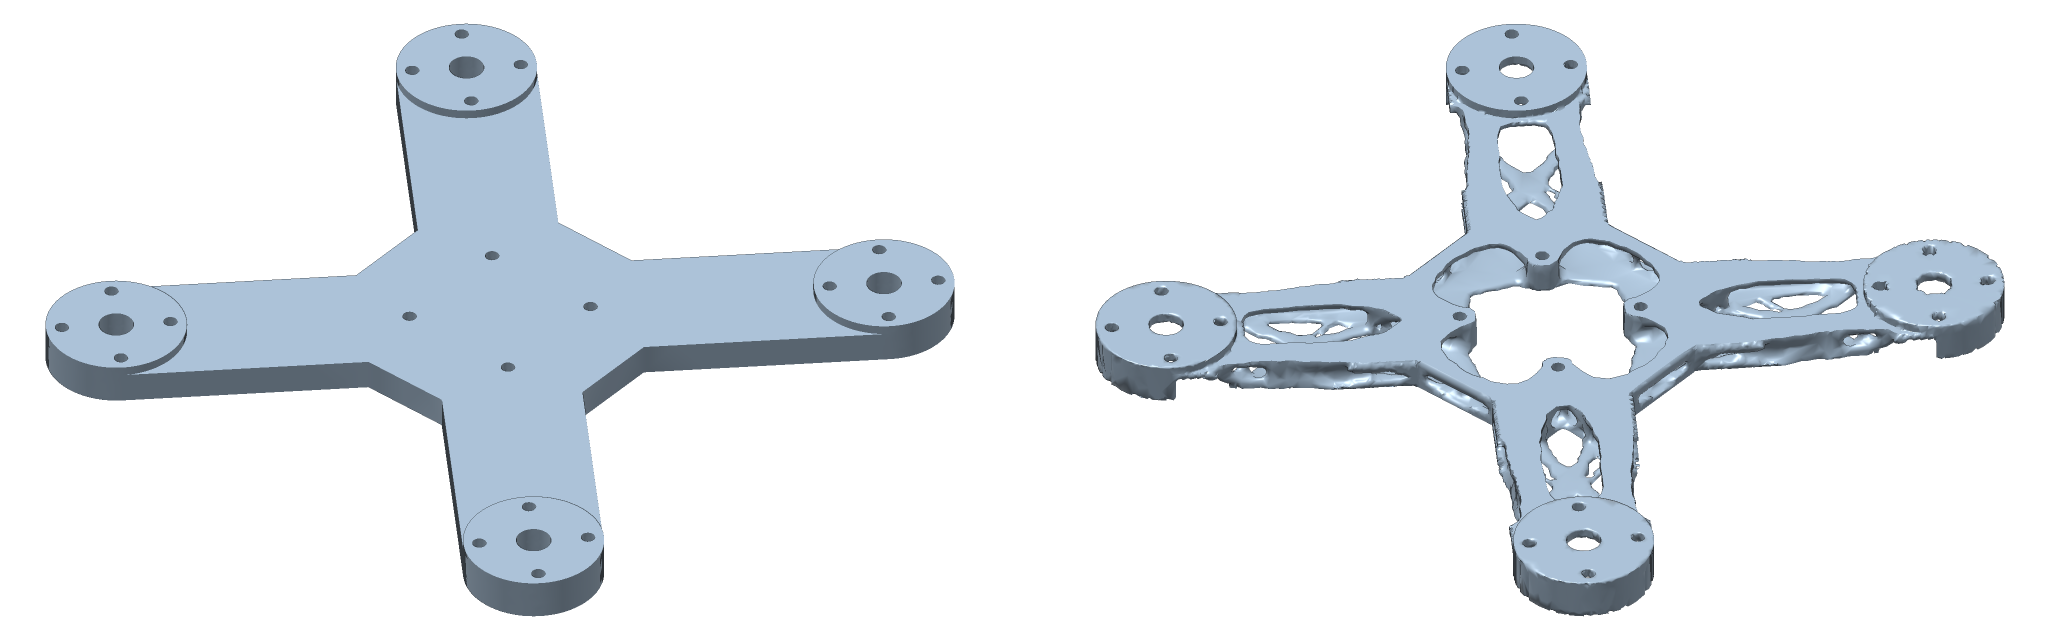
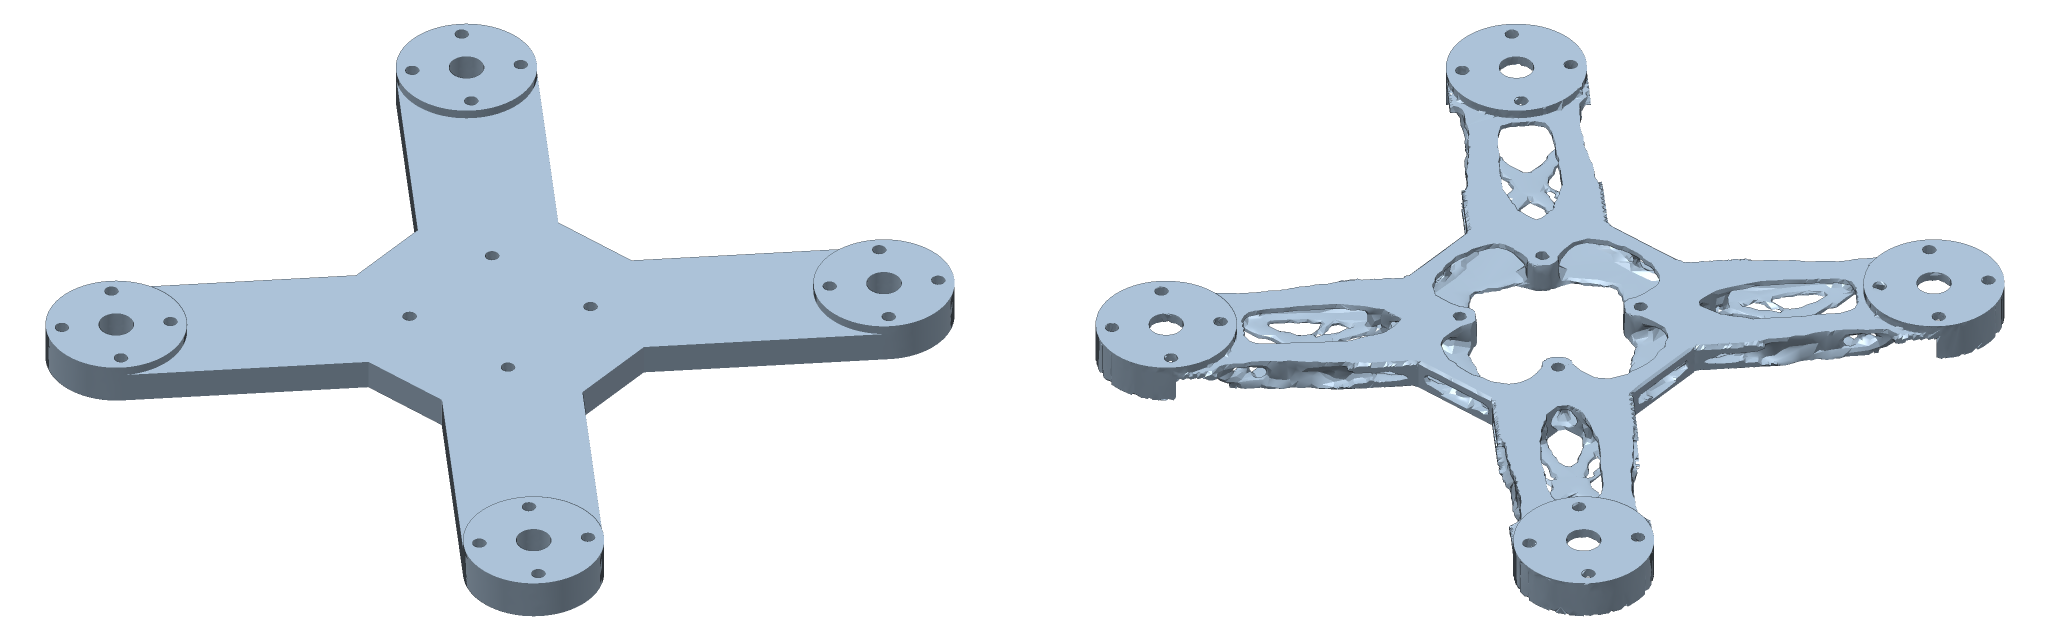
Sturdier grafting of kept faces
- Small pieces of the result cut off by the cut (islands) are dropped
  before the loops are matched, also when they lie on a neighbouring face;
  a stray small loop is closed only when it is a hole, not an island.
- Mending drops mirror-image triangle pairs (flaps of no thickness) and
  collapses edges of folded or degenerate triangles when flips cannot help
  (link condition, no triangle turned over).
- Still tangled seams are relaxed: the result's vertices near the outline
  move to the mean of their neighbours and back onto their faces, then are
  mended again.
- Plugin: Re-mesh drops the previous run's mesh warnings (kept surfaces,
  failed mesh, failed solid) before adding its own.
- FPV frame example re-meshed: all four motor seats are now the CAD faces.
  render_mesh.py no longer averages normals across sharp edges.

diff --git a/crates/topopt-mesh/src/graft.rs b/crates/topopt-mesh/src/graft.rs
@@ -319,6 +319,46 @@ fn ear_clip(poly: &[u32], q: &[[f64; 2]]) -> Option<Vec<[u32; 3]>> {
     Some(tris)
 }
 
+/// Removes islands: pieces of the result the cut has cut off from the rest. Small ones (64
+/// triangles or fewer: a sliver of a wall next to the outline), and any lying all on or next to
+/// the kept faces (a ring around a hole the cut went round). Their loops would match no outline.
+/// Returns the triangles removed.
+fn drop_islands(mesh: &Mesh, original: &Original, keep: &[bool], h: f64, rest: &mut Vec<[u32; 3]>) -> usize {
+    let tmp = Mesh { positions: mesh.positions.clone(), triangles: rest.clone() };
+    let (comp, count) = tmp.components();
+    if count < 2 {
+        return 0;
+    }
+    let mut size = vec![0usize; count];
+    for &c in &comp {
+        size[c as usize] += 1;
+    }
+    let largest = (0..count).max_by_key(|&c| size[c]).unwrap_or(0);
+    let mut drop: Vec<bool> = (0..count).map(|c| c != largest).collect();
+    for (t, tri) in rest.iter().enumerate() {
+        let c = comp[t] as usize;
+        if !drop[c] || size[c] <= 64 {
+            continue;
+        }
+        for &v in tri {
+            let p = mesh.positions[v as usize];
+            let (proj, (k, _)) = original.shape.project_local_point_and_get_location(v3(p), false);
+            if !keep[k as usize] || norm(sub(p, [proj.point.x, proj.point.y, proj.point.z])) > h {
+                drop[c] = false;
+                break;
+            }
+        }
+    }
+    let before = rest.len();
+    let mut k = 0;
+    rest.retain(|_| {
+        let c = comp[k] as usize;
+        k += 1;
+        !drop[c]
+    });
+    before - rest.len()
+}
+
 /// A vertex with more than one boundary half-edge leaving it (two holes touching there), if any.
 fn pinched_vertex(triangles: &[[u32; 3]]) -> Option<u32> {
     let mut half: std::collections::HashSet<(u32, u32)> = std::collections::HashSet::new();
@@ -443,6 +483,44 @@ impl Stitch {
     /// collapsed. The original surface's triangles are never changed. Returns the repairs made.
     fn mend(&mut self, tiny: f64) -> usize {
         let mut flips = 0;
+        // A triangle and its mirror image (the same corners, the other way round) are a flap of
+        // no thickness: both go, and their edges are left with the triangles on either side. One
+        // of the original surface's stays, the other goes.
+        let mut by_corners: HashMap<[u32; 3], Vec<usize>> = HashMap::new();
+        for (t, tri) in self.triangles.iter().enumerate() {
+            let mut k = *tri;
+            k.sort_unstable();
+            by_corners.entry(k).or_default().push(t);
+        }
+        let mut gone = vec![false; self.triangles.len()];
+        for list in by_corners.values().filter(|l| l.len() == 2) {
+            let (a, b) = (list[0], list[1]);
+            let (ta, tb) = (self.triangles[a], self.triangles[b]);
+            let rot = |t: [u32; 3], k: usize| [t[k], t[(k + 1) % 3], t[(k + 2) % 3]];
+            let mirrored = (0..3).any(|k| rot(tb, k) == [ta[0], ta[2], ta[1]]);
+            if !mirrored {
+                continue;
+            }
+            match (self.patch[a], self.patch[b]) {
+                (false, false) => {
+                    gone[a] = true;
+                    gone[b] = true;
+                }
+                (true, false) => gone[b] = true,
+                (false, true) => gone[a] = true,
+                (true, true) => {}
+            }
+        }
+        if gone.iter().any(|&g| g) {
+            let mut k = 0;
+            let patch = std::mem::take(&mut self.patch);
+            self.triangles.retain(|_| {
+                k += 1;
+                !gone[k - 1]
+            });
+            self.patch = patch.into_iter().zip(&gone).filter(|(_, g)| !**g).map(|(p, _)| p).collect();
+            flips += gone.iter().filter(|&&g| g).count();
+        }
         for _ in 0..200 {
             let tmp = Mesh { positions: self.positions.clone(), triangles: self.triangles.clone() };
             let mut bad: Vec<u32> = crate::mesh::folded_triangles(&tmp);
@@ -534,11 +612,123 @@ impl Stitch {
                 }
             }
             if !done {
+                // No flip helps: collapse an edge of a bad triangle instead, moving a vertex of the
+                // result (never one of the original surface's) onto its neighbour, when the mesh
+                // stays manifold (the link condition) and no triangle turns over.
+                if let Some((gone, into)) = self.collapsible(&bad, &on_patch, &star) {
+                    let mut kept = Vec::with_capacity(self.triangles.len());
+                    let mut flags = Vec::with_capacity(self.triangles.len());
+                    for (t, &p) in self.triangles.iter().zip(&self.patch) {
+                        let t = t.map(|v| if v == gone { into } else { v });
+                        if t[0] != t[1] && t[1] != t[2] && t[0] != t[2] {
+                            kept.push(t);
+                            flags.push(p);
+                        }
+                    }
+                    self.triangles = kept;
+                    self.patch = flags;
+                    flips += 1;
+                    continue;
+                }
                 break;
             }
         }
         self.index();
         flips
+    }
+
+    /// Untangles the seam: the result's own vertices (`< base`, on no patch triangle) within
+    /// `band` of the outline move to the mean of their neighbours, `rounds` times; one that lay on
+    /// the original surface goes back onto it, but never onto a kept face (it would sit on top of
+    /// the patch: such a vertex stays put). Returns the vertices moved.
+    fn relax(&mut self, base: u32, original: &Original, keep: &[bool], near_outline: &dyn Fn([f64; 3]) -> bool, h: f64, rounds: usize) -> usize {
+        let on_patch: std::collections::HashSet<u32> =
+            self.triangles.iter().zip(&self.patch).filter(|(_, p)| **p).flat_map(|(t, _)| *t).collect();
+        let mut neighbours: HashMap<u32, Vec<u32>> = HashMap::new();
+        for t in &self.triangles {
+            for k in 0..3 {
+                neighbours.entry(t[k]).or_default().push(t[(k + 1) % 3]);
+            }
+        }
+        let movable: Vec<u32> = neighbours
+            .keys()
+            .copied()
+            .filter(|&v| v < base && !on_patch.contains(&v) && near_outline(self.positions[v as usize]))
+            .collect();
+        let on_surface: HashMap<u32, bool> = movable
+            .iter()
+            .map(|&v| (v, original.shape.distance_to_local_point(v3(self.positions[v as usize]), false) <= 1e-6 * h))
+            .collect();
+        let mut moved = 0;
+        for _ in 0..rounds {
+            let next: Vec<(u32, [f64; 3])> = movable
+                .iter()
+                .map(|&v| {
+                    let ns = &neighbours[&v];
+                    let n = ns.len() as f64;
+                    let mean = ns.iter().fold([0.0; 3], |a, &u| {
+                        let p = self.positions[u as usize];
+                        [a[0] + p[0] / n, a[1] + p[1] / n, a[2] + p[2] / n]
+                    });
+                    (v, mean)
+                })
+                .collect();
+            for (v, mut p) in next {
+                if on_surface[&v] {
+                    let (proj, (t, _)) = original.shape.project_local_point_and_get_location(v3(p), false);
+                    if keep[t as usize] {
+                        continue;
+                    }
+                    p = [proj.point.x, proj.point.y, proj.point.z];
+                }
+                self.positions[v as usize] = p;
+                moved += 1;
+            }
+        }
+        moved
+    }
+
+    /// An edge of one of the `bad` triangles to collapse, (gone, into): `gone` is the result's own
+    /// vertex, the two share exactly the two neighbours across the edge, and every triangle
+    /// around `gone` that stays keeps facing the way it did.
+    fn collapsible(&self, bad: &[u32], on_patch: &std::collections::HashSet<u32>, star: &HashMap<u32, Vec<usize>>) -> Option<(u32, u32)> {
+        let normal = |t: [u32; 3]| {
+            let p = |v: u32| self.positions[v as usize];
+            cross(sub(p(t[1]), p(t[0])), sub(p(t[2]), p(t[0])))
+        };
+        let ring = |v: u32| -> std::collections::HashSet<u32> {
+            star.get(&v).into_iter().flatten().flat_map(|&t| self.triangles[t]).filter(|&u| u != v).collect()
+        };
+        for &t in bad {
+            let tri = self.triangles[t as usize];
+            for k in 0..3 {
+                for (gone, into) in [(tri[k], tri[(k + 1) % 3]), (tri[(k + 1) % 3], tri[k])] {
+                    if on_patch.contains(&gone) {
+                        continue;
+                    }
+                    let common: Vec<u32> = ring(gone).intersection(&ring(into)).copied().collect();
+                    let across: Vec<u32> = star[&gone]
+                        .iter()
+                        .map(|&s| self.triangles[s])
+                        .filter(|s| s.contains(&into))
+                        .filter_map(|s| s.iter().copied().find(|&c| c != gone && c != into))
+                        .collect();
+                    if common.len() != across.len() || !common.iter().all(|c| across.contains(c)) {
+                        continue;
+                    }
+                    let ok = star[&gone].iter().map(|&s| self.triangles[s]).filter(|s| !s.contains(&into)).all(|s| {
+                        let after = s.map(|v| if v == gone { into } else { v });
+                        let (n0, n1) = (normal(s), normal(after));
+                        let l = norm(n1);
+                        l > 1e-9 * norm(n0).max(1e-300) && dot(n0, n1) > 0.0
+                    });
+                    if ok {
+                        return Some((gone, into));
+                    }
+                }
+            }
+        }
+        None
     }
 
     /// Whether splitting the triangle on half-edge `u`→`v` at `points` (a fan from its third
@@ -874,46 +1064,11 @@ fn graft(mesh: &Mesh, original: &Original, keep: &[bool], h: f64, check: bool, m
         rest.retain(|t| !t.iter().any(|&v| near[v as usize]));
         stats.removed += before - rest.len();
     }
-    // Islands: pieces of the result left inside the cut, all of them on or next to the kept faces
-    // (a ring around a hole the cut went round). They would leave a loop no outline matches.
-    {
-        let tmp = Mesh { positions: mesh.positions.clone(), triangles: rest.clone() };
-        let (comp, count) = tmp.components();
-        if count > 1 {
-            let mut size = vec![0usize; count];
-            for &c in &comp {
-                size[c as usize] += 1;
-            }
-            let largest = (0..count).max_by_key(|&c| size[c]).unwrap_or(0);
-            let mut near_kept = vec![true; count];
-            for (t, tri) in rest.iter().enumerate() {
-                let c = comp[t] as usize;
-                if c == largest || !near_kept[c] {
-                    continue;
-                }
-                for &v in tri {
-                    let p = mesh.positions[v as usize];
-                    let (proj, (k, _)) = original.shape.project_local_point_and_get_location(v3(p), false);
-                    if !keep[k as usize] || norm(sub(p, [proj.point.x, proj.point.y, proj.point.z])) > h {
-                        near_kept[c] = false;
-                        break;
-                    }
-                }
-            }
-            let before = rest.len();
-            let mut k = 0;
-            rest.retain(|_| {
-                let c = comp[k] as usize;
-                k += 1;
-                c == largest || !near_kept[c]
-            });
-            stats.removed += before - rest.len();
-        }
-    }
     // Where two cuts touch at a vertex, cut its triangles too, until the cut's loops are simple.
     let holes = {
         let mut tries = 0;
         loop {
+            stats.removed += drop_islands(mesh, original, keep, h, &mut rest);
             match pinched_vertex(&rest) {
                 None => break boundary_loops(&rest)?,
                 Some(v) if tries < 64 => {
@@ -1181,6 +1336,18 @@ fn graft(mesh: &Mesh, original: &Original, keep: &[bool], h: f64, check: bool, m
     }
 
     s.mend(1e-6 * h);
+    // Still folded or crossing next to the seam: untangle there and mend again.
+    {
+        let tmp = Mesh { positions: s.positions.clone(), triangles: s.triangles.clone() };
+        let tangled = !crate::mesh::folded_triangles(&tmp).is_empty()
+            || !crate::mesh::degenerate_triangles(&tmp).is_empty()
+            || (check && !crate::intersect::find_self_intersections(&tmp).is_empty());
+        if tangled {
+            let near = |p: [f64; 3]| outline_shape.distance_to_local_point(v3(p), false) <= 2.5 * h;
+            s.relax(base, original, keep, &near, h, 12);
+            s.mend(1e-6 * h);
+        }
+    }
     let mut out = Mesh { positions: s.positions, triangles: s.triangles };
     out.compact();
     let r = out.validate(check);

diff --git a/crates/topopt-study/src/lib.rs b/crates/topopt-study/src/lib.rs
@@ -473,16 +473,18 @@ pub fn make_mesh(study: &Study, density: &Density, surface: Surface) -> Result<(
         ..Default::default()
     };
     let h = field.h;
-    let (mut mesh, mut report) = topopt_mesh::extract_with(field, Some(&anchors), None, projector.as_ref(), &opts)?;
-    // Kept faces exactly as the CAD model has them: its own triangles there, stitched in.
+    // Kept faces exactly as the CAD model has them: its own triangles there, stitched in after the
+    // mesh is made.
     let kept_faces: Vec<i64> = study
         .conditions
         .iter()
         .filter(|c| matches!(c, Condition::Keep { .. }))
         .flat_map(|c| c.faces().iter().map(|f| f.index))
         .collect();
-    if let Some(s) = surface.filter(|s| !kept_faces.is_empty() && s.faces.len() == s.triangles.len() && !s.triangles.is_empty()) {
-        let keep: Vec<bool> = s.faces.iter().map(|f| kept_faces.contains(f)).collect();
+    let graft = surface.filter(|s| !kept_faces.is_empty() && s.faces.len() == s.triangles.len() && !s.triangles.is_empty());
+    let keep: Vec<bool> = graft.map(|s| s.faces.iter().map(|f| kept_faces.contains(f)).collect()).unwrap_or_default();
+    let (mut mesh, mut report) = topopt_mesh::extract_with(field, Some(&anchors), None, projector.as_ref(), &opts)?;
+    if let Some(s) = graft {
         let (grafted, g) = topopt_mesh::graft_kept_faces(&mesh, (s.positions, s.triangles), &keep, h, opts.check_self_intersections);
         if g.grafted > 0 {
             mesh = grafted;

diff --git a/plugins/topopt-src/src/lib.rs b/plugins/topopt-src/src/lib.rs
@@ -516,7 +516,13 @@ fn remesh() -> Result<Value, PluginError> {
     let mut result = study.result.clone().unwrap_or_default();
     result.stl = path;
     result.inserted = false;
-    result.warnings.retain(|w| !w.starts_with("the sharp edges"));
+    // The mesh's own warnings are made afresh.
+    result.warnings.retain(|w| {
+        !w.starts_with("the sharp edges")
+            && !w.contains("kept surfaces could not take the CAD model's own triangles")
+            && !w.starts_with("the mesh could not be made")
+            && !w.starts_with("the body was inserted as a mesh")
+    });
     result.warnings.extend(topopt_study::mesh_warnings(&study, &full, surface_ref.is_some()));
     result.triangles = report.triangles;
     result.genus = report.genus;

diff --git a/scripts/render_mesh.py b/scripts/render_mesh.py
@@ -42,6 +42,9 @@ def rotation(yaw, pitch):
 
 def render(mesh, width, height, yaw, pitch, color, frame=None):
     """`frame`: the vertices that set the framing (default: the mesh's own)."""
+    # Normals are not averaged across sharp edges: a large flat face whose corners it shares with
+    # a steep wall would otherwise be shaded in blotches.
+    mesh = mesh.smooth_shaded
     ss = 2
     W, H = width * ss, height * ss
     v = np.asarray(mesh.vertices, dtype=np.float64)

diff --git a/docs/topopt-mesh.md b/docs/topopt-mesh.md
@@ -45,10 +45,12 @@ std::fs::write("part.stl", mesh.to_stl("topopt"))?;
 2. **insert** the patch's triangles; each loop of the cut is matched to the nearest loop of the patch's outline (one to one);
 3. **weld**: cut vertices within `0.1 h` of the outline (the crease vertices that pinning put on sharp edges, and those next to them) become outline vertices: the outline is split where one lands, or its own vertex is taken if it is that close. Only welds that run once back along the outline are kept, so they come in order;
 4. **bridge** between consecutive welds: an edge of the cut that runs along the outline is split at the outline's vertices when the fan from its triangle's third corner stays the right way round. Any other gap is **ear-clipped**: in its best-fit plane (the direction of least spread of its points) when it is within one sample spacing of flat and every triangle then faces that plane's way; else in its **ribbon** coordinates, arc length along the outline and distance from it, which unroll a strip along the outline whether the face next to it is a plane or a hole's wall. Only a simple polygon is clipped, the best-shaped ear first, so no triangles lie over each other. As a last resort a **ladder** joins the two chains: each cut vertex gets a foot on the outline, and neighbouring rungs are joined by two triangles;
-5. **mend**: two vertices on one point are merged, and a folded or degenerate triangle along the seam has an edge flipped when both new triangles face the way their neighbours do. The patch's own triangles are never changed;
+5. **mend**: two vertices on one point are merged; a triangle and its mirror image (a flap of no thickness) are both dropped; a folded or degenerate triangle along the seam has an edge flipped when both new triangles face the way their neighbours do, else an edge collapsed when the mesh stays manifold (the link condition) and nothing turns over. If folds or crossings remain, the result's own vertices within 2.5 sample spacings of the outline are **relaxed** (moved to the mean of their neighbours, a dozen times, those on the original surface put back on it but never onto a kept face) and mended again. The patch's own triangles are never changed;
 6. **check**: the whole mesh is validated (closed, manifold, oriented, no crossings or folds).
 
-Each patch is tried with each way of filling (plane or ribbon, ribbon only, ladders only), then with the cut widened by half and by one sample spacing around the outline, so that the gap is filled afresh rather than stitched to a ragged edge. All patches are grafted at once; if that fails, each patch alone, keeping those that pass. On a 3-inch FPV frame with 0.4 mm samples, its four motor seats (a 22 mm disc with five holes each) all graft; M2 holes, about five samples across, often do not, as the surface around them is too ragged at that resolution. A patch that cannot be grafted stays as it was, and `GraftReport::failures` says why. `extract` does not graft; `topopt-study`'s `make_mesh` does, after it, when the surface's triangles carry face numbers.
+Each patch is tried with each way of filling (plane or ribbon, ribbon only, ladders only), then with the cut widened by half and by one sample spacing around the outline, so that the gap is filled afresh rather than stitched to a ragged edge. Pieces of the result the cut has cut off (64 triangles or fewer, or lying all on the kept faces) are dropped before the loops are matched, and a small loop left over after matching (a triangle or two cut apart from the rest) is closed where it is. All patches are grafted at once; if that fails, each patch alone, keeping those that pass.
+
+Tested on a 3-inch FPV frame with 0.41 mm samples, its result re-meshed with seven mesh settings (Taubin, HC and bilateral smoothing, 15 000 to 45 000 triangles, finer surface on and off) and two runs: the four motor seats (a 22 mm disc with five holes) grafted in 34 of 36 cases; the two that did not were with sharp edges off and only five smoothing passes. Kept on their own, the four M2 stack holes and the four shaft holes all grafted. With every face kept at once (each seat with its five holes as one patch, and the stack holes), 6 of 8 patches grafted; the two that did not are seats with their M2 holes, each hole about five samples across. A patch that does not graft is pinned to its faces as before, and the warning says so. A patch that cannot be grafted stays as it was, and `GraftReport::failures` says why. `extract` does not graft; `topopt-study`'s `make_mesh` does, after it, when the surface's triangles carry face numbers.
 
 ## Finer fields: `upsample_cells`
 

diff --git a/examples/fpv-frame/README.md b/examples/fpv-frame/README.md
@@ -55,7 +55,7 @@ The arms became open trusses: two flanges along the arm's edges, which carry the
 | | Blank | Optimized |
 |---|---|---|
 | Mass | 38.2 g | **11.8 g** (−69 %) |
-| Volume | 30 081 mm³ | 9 310 mm³ (31 % of the blank) |
+| Volume | 30 081 mm³ | 9 316 mm³ (31 % of the blank) |
 | Full throttle: largest deflection | 0.42 mm | 1.27 mm |
 | Full throttle: von Mises stress, 99 % of the material below / peak | 1.4 / 3.0 MPa | 3.2 / 5.0 MPa |
 | Side hit: largest deflection | 0.08 mm | 0.37 mm |
@@ -72,7 +72,7 @@ The **Run** tab of the panel shows them after the run:
 
 **How the numbers were checked.** After the optimization the result is made solid where its density reaches the surface threshold and empty elsewhere, and analysed once more under each load case ([`Optimizer::check`](../../docs/topopt-core.md#the-optimizer)). It gives the largest displacement and the von Mises stress of every element. The blank's numbers come from the same analysis of the whole body ([`check_job`](../../crates/topopt-study/examples/check_job.rs)). The analysis agrees with beam theory on a solid cantilever: deflection within 1.5 %, bending stress within 0.4 % ([`tests/stress.rs`](../../crates/topopt-core/tests/stress.rs)). On voxels the single highest stress is exaggerated at the supports and at stair-stepped corners, so compare the 99th percentile with the material's strength.
 
-**The run.** 176 iterations to convergence in 18 minutes on an NVIDIA Quadro P620 (TopOpt CUDA Solver; 52 832 elements, 5 load cases). Three of the four motor seats came out as the CAD model's own triangles. On the fourth the stitching did not close, so it is the optimizer's surface pinned to the seat face: within about a tenth of an element of it, but less smooth.
+**The run.** 176 iterations to convergence in 18 minutes on an NVIDIA Quadro P620 (TopOpt CUDA Solver; 52 832 elements, 5 load cases). All four motor seats came out as the CAD model's own triangles: sampled 3 000 times, no point of them is off the CAD faces (0.0000 mm).
 
 ## Reproduce it
 
